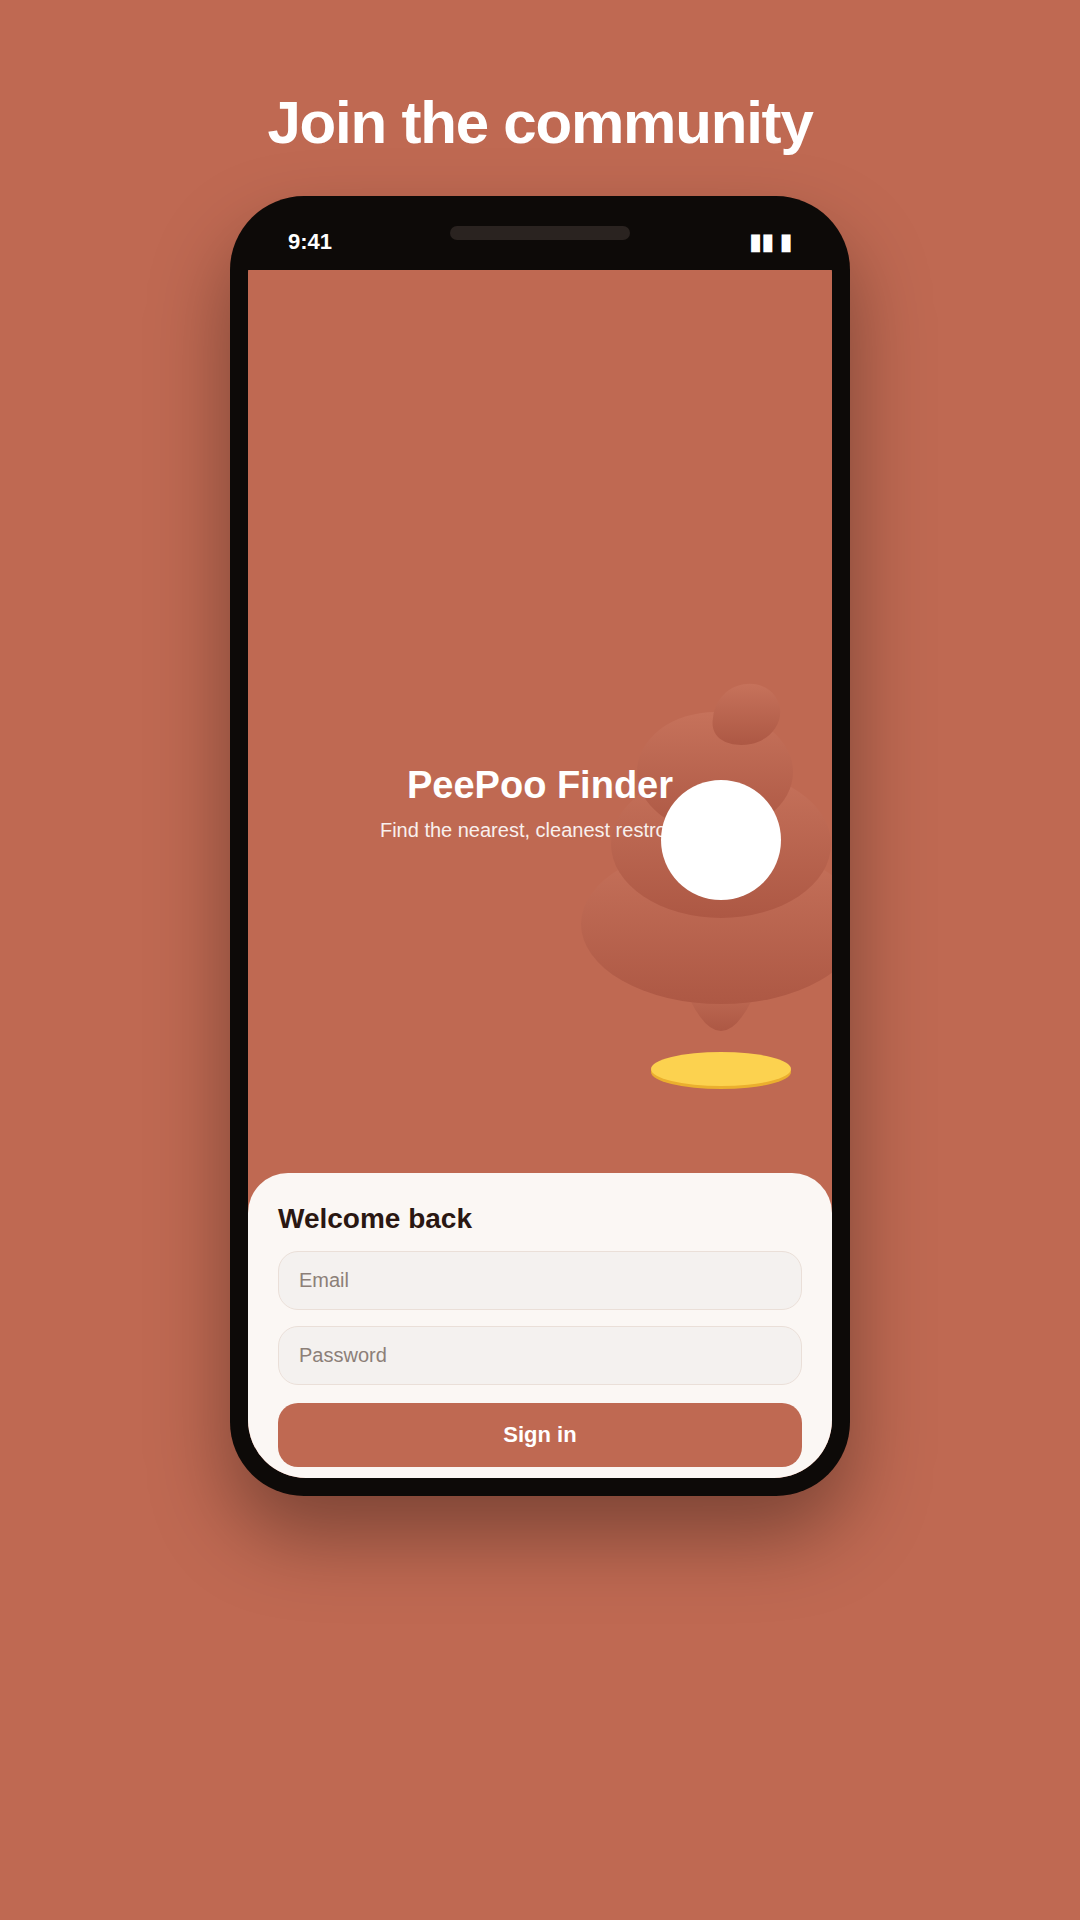
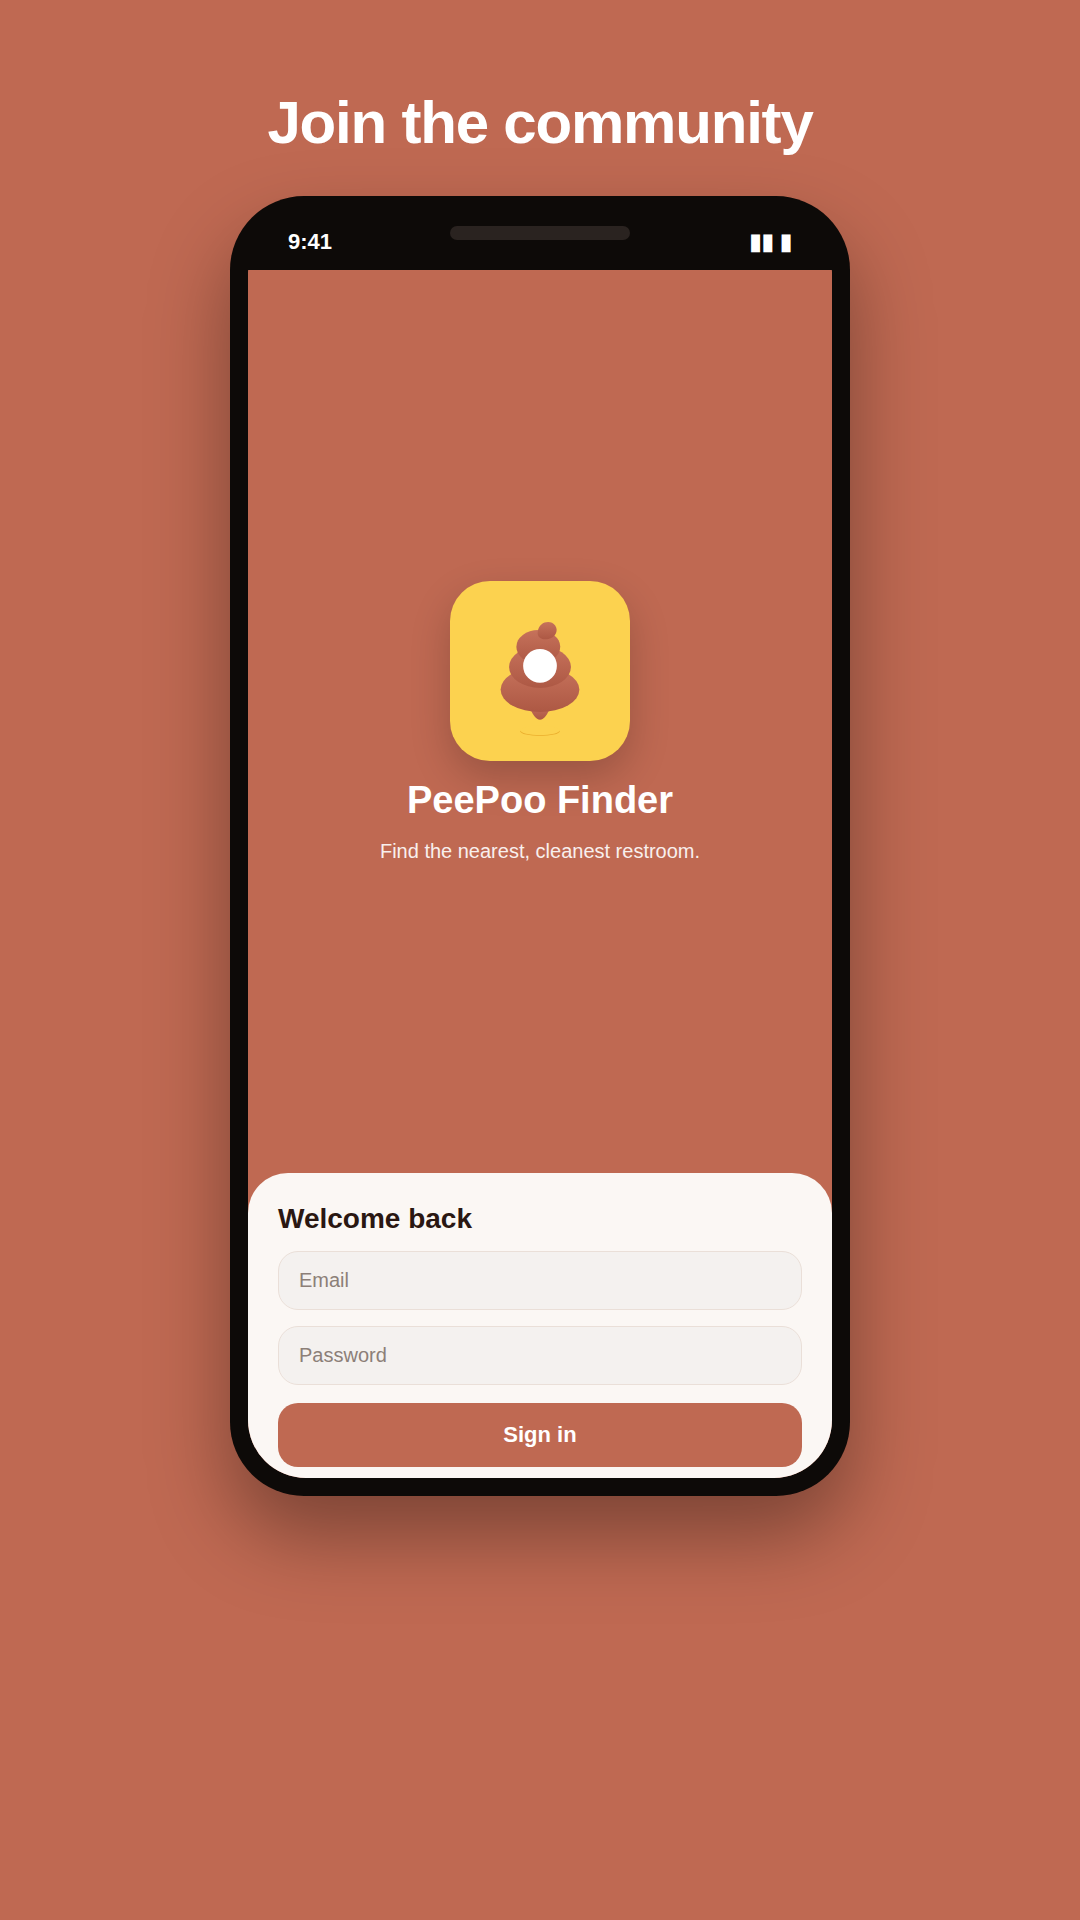
Add Terms of Use page and App Store-sized screenshots
- Serve GET /terms — Terms of Use / EULA with a zero-tolerance policy for
  objectionable content and a description of the report/block/moderation and
  account-deletion flows (satisfies App Store guideline 1.2's EULA requirement).
- Add exact-size App Store 6.7" screenshots (1290x2796) under
  store/assets/appstore/, and refresh the login frame to use the icon badge.
- Update the listing sheets: reference /terms, the ready 6.7" screenshots, and
  mark the EULA requirement as met.

Verified: /terms returns 200 text/html anonymously.

Claude-Session: https://claude.ai/code/session_01CHdWdPUunyyXErmwkwNhkv

Changed region(s): [[0.3667, 0.2812, 0.7333, 0.4688], [0.6111, 0.5312, 0.7333, 0.5938]]

diff --git a/src/PeePoo/API/Controllers/LegalController.cs b/src/PeePoo/API/Controllers/LegalController.cs
@@ -49,6 +49,39 @@ namespace API.Controllers
             return Page("Privacy Policy", body);
         }
 
+        [HttpGet("/terms")]
+        public ContentResult Terms()
+        {
+            var body = $@"
+<h1>Terms of Use</h1>
+<p class='muted'>Last updated: {_updated}</p>
+<p>By using {_appName} you agree to these terms. If you don't agree, please don't use the app.</p>
+
+<h2>Your account</h2>
+<p>You are responsible for activity on your account and for keeping your credentials safe. You may delete your account at any time (see <a href='/account-deletion'>Account &amp; data deletion</a>).</p>
+
+<h2>Community content</h2>
+<p>{_appName} lets you post places, reviews and photos. You keep ownership of what you post, and you grant us a license to display it in the app to other users. Only post content you have the right to share.</p>
+
+<h2>Zero tolerance for objectionable content</h2>
+<p>There is <b>no tolerance</b> for objectionable, abusive, harassing, hateful, illegal or infringing content, or for abusive users. Don't post it.</p>
+<ul>
+  <li>You can <b>report</b> any place or review from inside the app.</li>
+  <li>You can <b>block</b> a user so you no longer see their content.</li>
+  <li>We review reports and <b>remove</b> content and <b>remove or ban</b> users that violate these terms, typically within 24 hours.</li>
+</ul>
+
+<h2>Location &amp; accuracy</h2>
+<p>Places and details are community-contributed and may be inaccurate or out of date. Use your judgment; we are not responsible for the condition, availability or safety of any location.</p>
+
+<h2>Changes</h2>
+<p>We may update these terms; continued use means you accept the changes.</p>
+
+<h2>Contact</h2>
+<p><a href='mailto:{_supportEmail}'>{_supportEmail}</a></p>";
+            return Page("Terms of Use", body);
+        }
+
         [HttpGet("/account-deletion")]
         public ContentResult AccountDeletion()
         {

diff --git a/store/app-store.md b/store/app-store.md
@@ -60,6 +60,10 @@ https://YOUR-WEB.com
 ```
 https://YOUR-API.com/privacy
 ```
+### Terms of Use URL _(served by the backend)_
+```
+https://YOUR-API.com/terms
+```
 
 ---
 
@@ -69,12 +73,13 @@ Upload for at least the 6.7" size; the 6.5"/5.5" are reused/scaled.
 
 | Size | Pixels | Source |
 |---|---|---|
-| 6.7" | 1290×2796 | re-render from `store/` sources at this size, or scale `shot*.png` |
-| 6.5" | 1242×2688 | same |
-| 5.5" | 1242×2208 | same |
+| **6.7" (required)** | **1290×2796** | `assets/appstore/shot1-explore … shot5-login.png` — **ready to upload** |
+| 6.5" | 1242×2688 | optional; App Store Connect scales the 6.7" set |
+| 5.5" | 1242×2208 | optional |
 | App icon | 1024×1024 (no alpha) | `assets/appicon-1024.png` |
 
-The provided `shot1-explore … shot5-login.png` are 1080×1920 marketing frames; regenerate at the exact device sizes for final upload.
+The 6.7" set is provided at the exact pixel size Apple requires. The
+1080×1920 `assets/shot*.png` are the same frames for Google Play.
 
 ---
 
@@ -110,7 +115,7 @@ Not used for tracking. Not used for ads.
 - ✅ **Block** abusive users — in-app, hides their content
 - ✅ Moderation to act on reports — **admin queue** (`/api/admin/reports`, takedowns)
 - ✅ Account & data deletion — in-app (Profile → Delete account) + `/account-deletion`
-- ⛳ Add an EULA / terms with a zero-tolerance policy for objectionable content
+- ✅ EULA / terms with a zero-tolerance policy — served at `https://YOUR-API.com/terms`
 
 ---
 

diff --git a/store/README.md b/store/README.md
@@ -13,7 +13,8 @@ Everything to publish the app, ready to paste. Fill the `YOUR-API.com` /
 | `appicon-512.png` | Google Play app icon (512×512) |
 | `appicon-1024.png` | App Store app icon (1024×1024) |
 | `feature-1024x500.png` | Google Play feature graphic |
-| `shot1-explore.png` … `shot5-login.png` | Phone screenshots / marketing frames (1080×1920) |
+| `shot1-explore.png` … `shot5-login.png` | Phone screenshots (1080×1920) — Google Play |
+| `appstore/shot1-explore.png` … `shot5-login.png` | Phone screenshots (1290×2796) — App Store 6.7" |
 | `icon-master.svg` | Vector master of the brand mark |
 
 The in-app icon and splash live in `src/MauiApp/PeePooFinder/Resources/`
@@ -21,7 +22,7 @@ The in-app icon and splash live in `src/MauiApp/PeePooFinder/Resources/`
 generates every density from them at build time.
 
 ## Before you submit
-- Point the privacy / account-deletion URLs at your API domain (the backend
-  serves `/privacy` and `/account-deletion`).
+- Point the privacy / terms / account-deletion URLs at your API domain (the
+  backend serves `/privacy`, `/terms` and `/account-deletion`).
 - Create a real demo account in production for App Review.
 - Rotate and restrict the Google Maps key; build the app with `-p:MapsApiKey=…`.

diff --git a/store/google-play.md b/store/google-play.md
@@ -102,6 +102,7 @@ Collected, encrypted in transit, and the user can request deletion.
 
 - **Privacy policy URL:** `https://YOUR-API.com/privacy` _(served by the backend)_
 - **Account/data deletion URL:** `https://YOUR-API.com/account-deletion` _(served by the backend)_
+- **Terms of Use URL:** `https://YOUR-API.com/terms` _(served by the backend)_
 - **Target audience:** 13+
 - **Ads:** No
 - **User-generated content:** Yes → in-app **report** (places/reviews), **block** users, and an **admin moderation** queue are implemented.